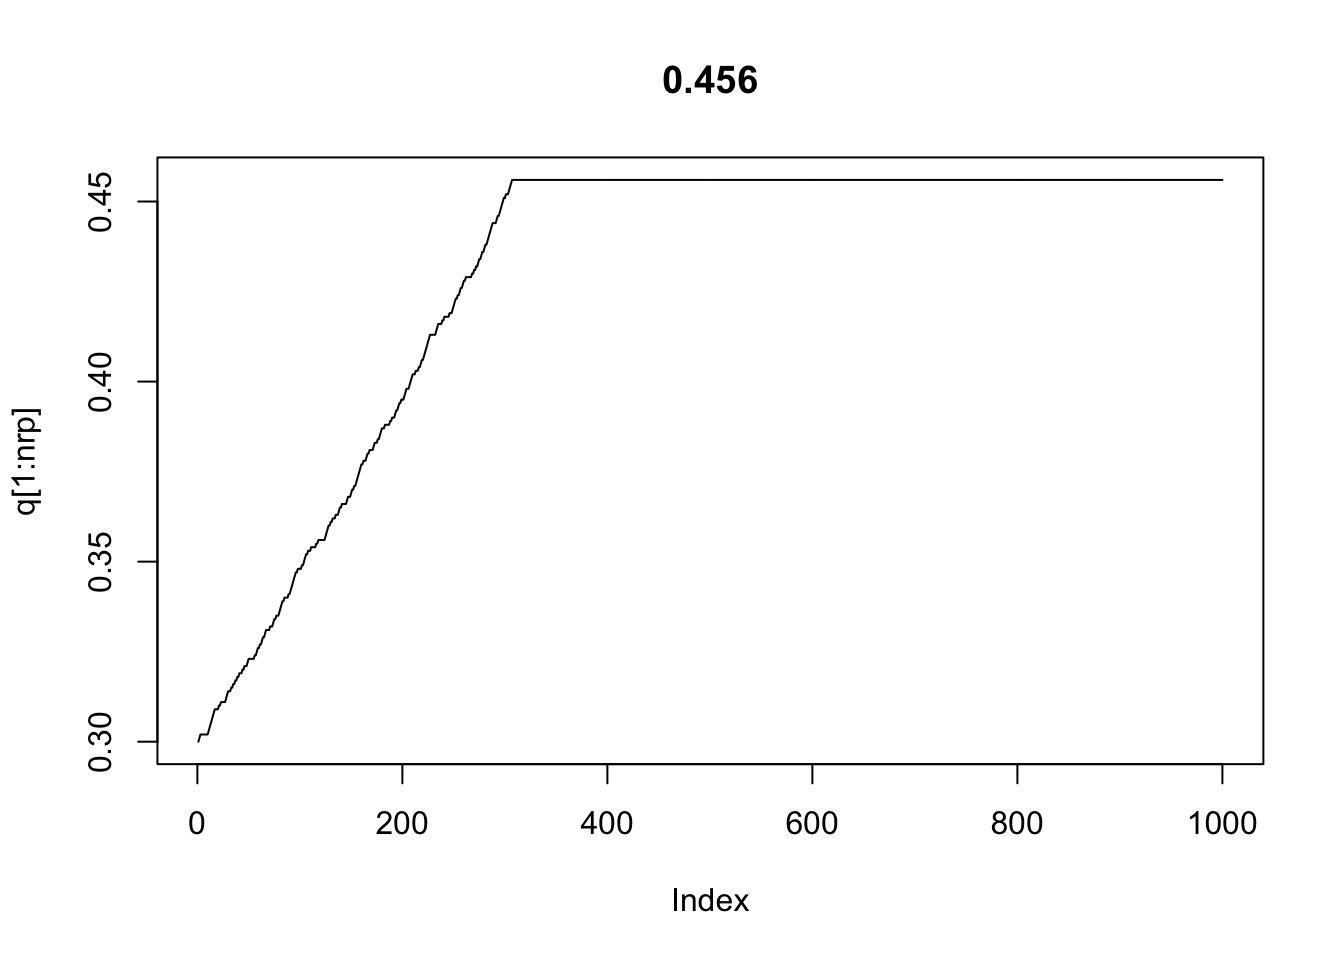
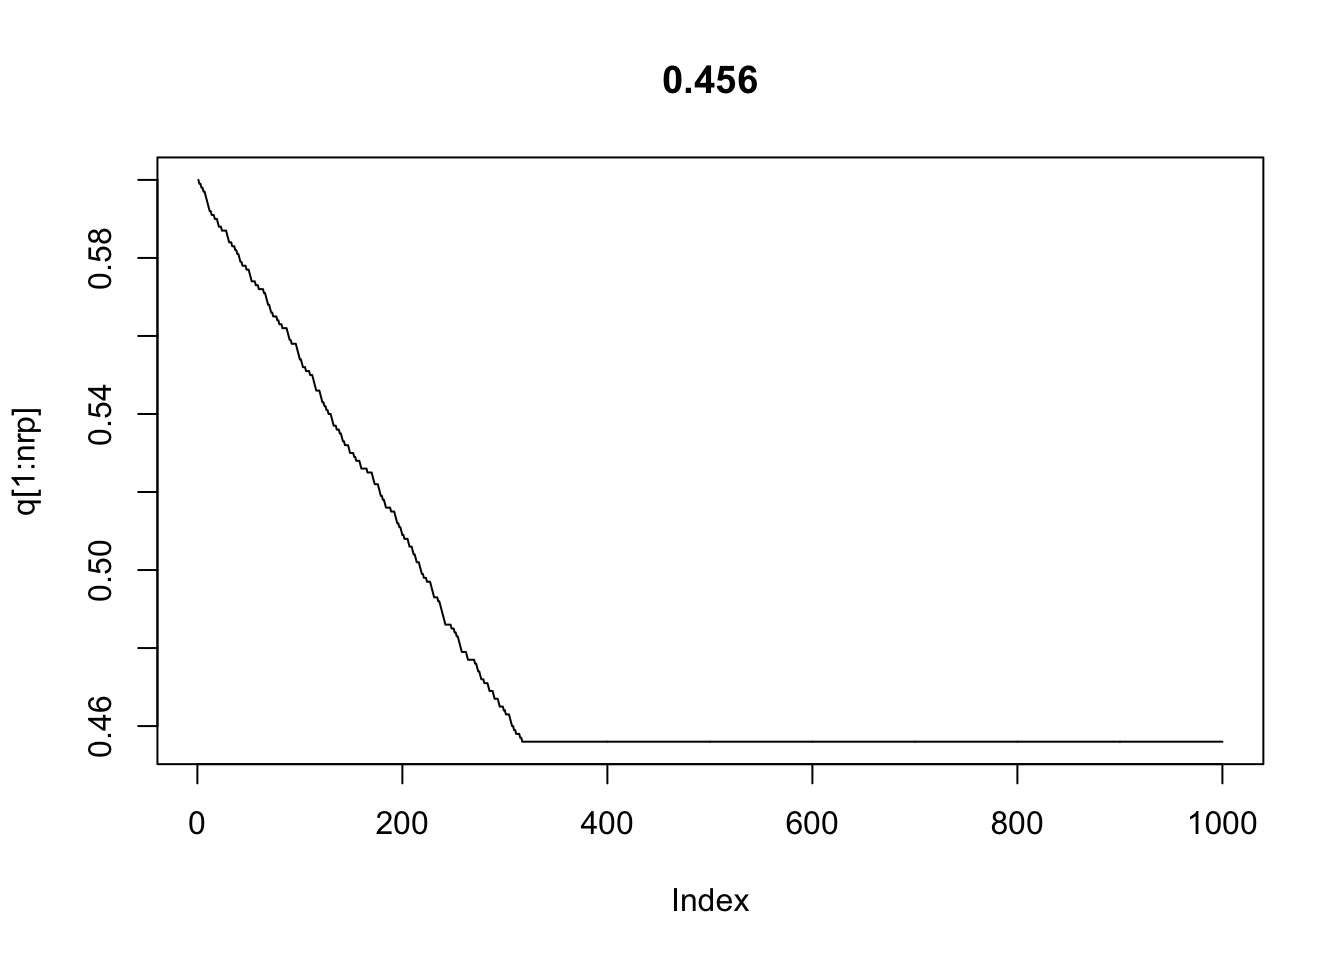
06111131

diff --git a/docs/mcmc.html b/docs/mcmc.html
@@ -382,7 +382,7 @@ plot(q, sapply(q, logb), type=&#39;l&#39;)</code></pre>
 </ul></li>
 </ul>
 <pre class="r"><code>nrp&lt;-1000
-qi&lt;-0.300
+qi&lt;-0.600
 n&lt;-8
 data&lt;-c(4,3,4,5,5,2,3,1,4,0,1,5,5,6,5,4,4,5,3,4)
 logL&lt;-numeric(nrp)
